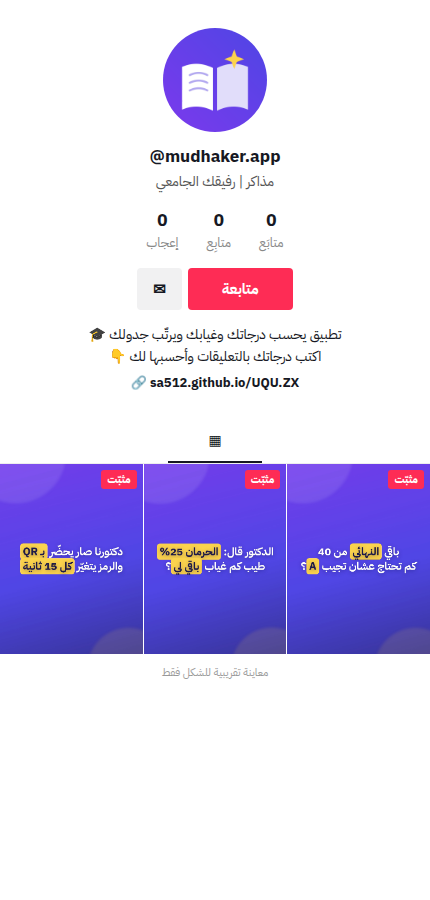
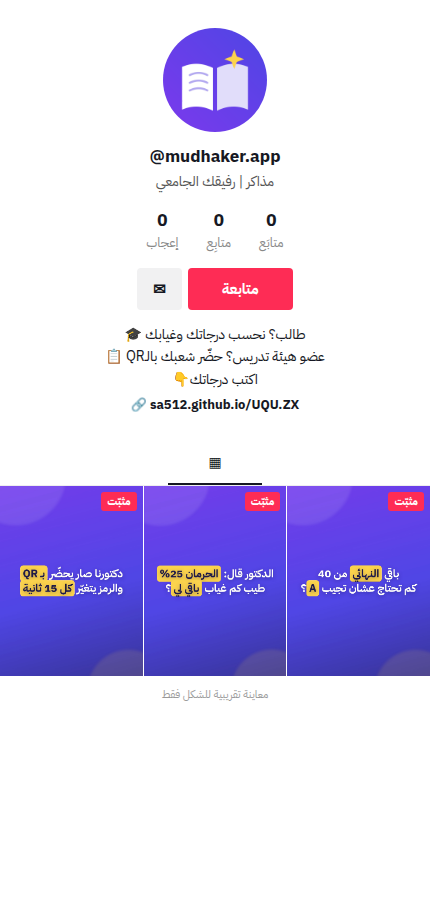
TikTok bio: address faculty members as well as students
Claude-Session: https://claude.ai/code/session_01NWnk4DXdxFVABPvthBcAcY

Changed region(s): [[0.0, 0.3422, 1.0, 0.7778]]

diff --git a/marketing/tiktok/ACCOUNT.md b/marketing/tiktok/ACCOUNT.md
@@ -9,10 +9,10 @@
 | **صورة الحساب** | `marketing/brand/tiktok-avatar.png` | البديل الليلي: `tiktok-avatar-dark.png` |
 | **اسم المستخدم** | `mudhaker.app` | بدائل بالترتيب: `mudhaker_sa` · `mudhakerapp` · `mudhaker.uni` |
 | **الاسم** | `مذاكر \| رفيقك الجامعي` | 21 حرفاً، والحد 30 |
-| **البايو** | `تطبيق يحسب درجاتك وغيابك ويرتّب جدولك 🎓 اكتب درجاتك بالتعليقات وأحسبها لك 👇` | 75 حرفاً، والحد 80 |
+| **البايو** | `طالب؟ نحسب درجاتك وغيابك 🎓 عضو هيئة تدريس؟ حضّر شعبك بالـQR 📋 اكتب درجاتك👇` | 74 حرفاً، والحد 80. يخاطب الطالب وعضو هيئة التدريس |
 | **الرابط** | `https://sa512.github.io/UQU.ZX` | متى ما أتاحه تيك توك للحساب |
 
-**بايو بديل** (70 حرفاً): `كم تحتاج في الفاينل؟ كم غياب باقي لك؟ نحسبها لك 🎓 تطبيق مذاكر · قريباً`
+**بايو بديل** (78 حرفاً): `للطالب: درجاتك وغيابك وجدولك 🎓 ولعضو هيئة التدريس: التحضير والشعب والدرجات 👨🏫`
 
 - اسم المستخدم يُكتب بحروف إنجليزية وأرقام و`_` و`.` فقط، وتيك توك يسمح بتغييره مرة كل 30 يوماً. اختره صح من أول مرة.
 - **احجز نفس الاسم** في سناب وإنستقرام وX عشان تكون الهوية موحّدة.
